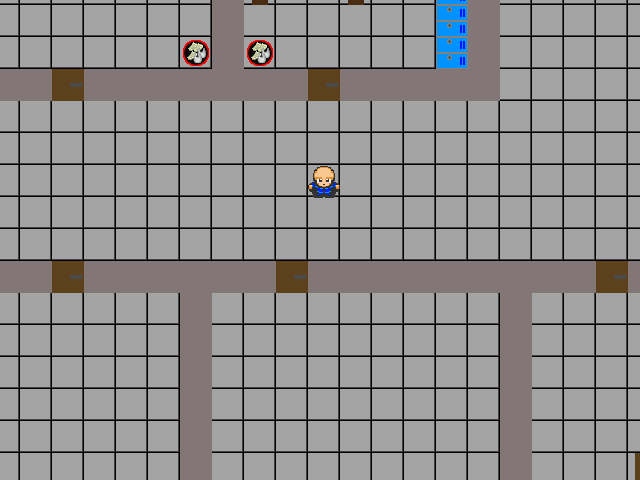
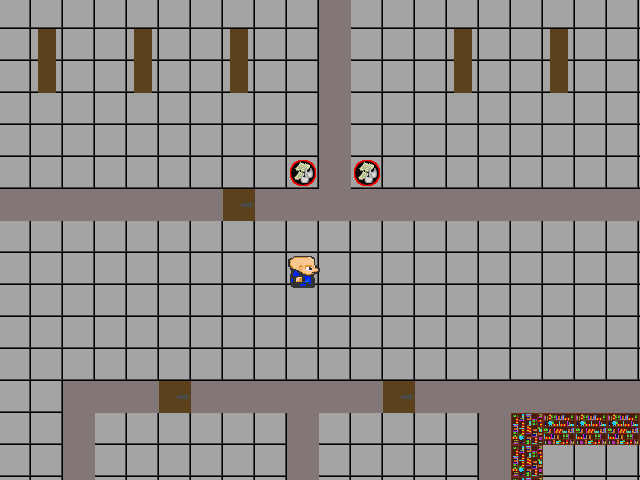
Added quest for Kontura's vtipnicek
need to add the vtipnicek tho :smiley:
The pygame buttons are bruh so I used a lot of images :+1:
Everything should work :pray:

diff --git a/main.py b/main.py
@@ -1,5 +1,5 @@
 # Import
-from numpy import number
+from turtle import back
 import pygame
 from save_progress import SaveProgress
 from sprites import *; from config import *
@@ -147,6 +147,7 @@ class Game:
                 elif column == "G": self.interactive[Block(self, j, i, "G")] = "G" + str(i) + str(j) # Glass door
                 elif column == "B": self.interactive[Block(self, j, i, "B")] = "B" + str(i) + str(j) # Bench
                 elif column == "l": self.interactive[Block(self, j, i, "l")] = "l" + str(i) + str(j) # Desk
+                elif column == "ĺ": self.interactive[Block(self, j, i, "ĺ")] = "ĺ" + str(i) + str(j) # Desk
                 elif column == "U": self.interactive[Block(self, j, i, "U")] = "U" + str(i) + str(j) # LCUJ Desk
                 elif column == "J": self.interactive[Block(self, j, i, "J")] = "J" + str(i) + str(j) # LCUJ Desk
                 elif column == "j": self.interactive[Block(self, j, i, "j")] = "j" + str(i) + str(j) # Horizontal Desk
@@ -163,6 +164,10 @@ class Game:
                 elif column == "|": self.interactive[Block(self, j, i, "|")] = "|" + str(i) + str(j) # Rails fourth_floor
                 elif column == "b": self.interactive[Block(self, j, i, "b")] = "b" + str(i) + str(j) # Basement
                 elif column == "d": self.interactive[Block(self, j, i, "d")] = "d" + str(i) + str(j) # Basement
+                elif column == "O": self.interactive[Block(self, j, i, "O")] = "O" + str(i) + str(j) # Bookshelf
+                elif column == "o": self.interactive[Block(self, j, i, "o")] = "o" + str(i) + str(j) # Bookshelf
+                elif column == "ó": self.interactive[Block(self, j, i, "ó")] = "ó" + str(i) + str(j) # Bookshelf
+                elif column == "Ó": self.interactive[Block(self, j, i, "Ó")] = "Ó" + str(i) + str(j) # Bookshelf
                 elif column == "N": self.interactive[Npc(self, j, i, "")] = "N" + str(i) + str(j)  # NPC
                 elif column == "C": self.npc.append(Npc(self, j, i, "C")) # Cleaner
 
@@ -271,6 +276,8 @@ class Game:
                     case "Basement": self.basement()
                     case "Toilet": self.toilet()
                     case "Teacher": self.talking_with_teachers()
+                    case "Bookshelf": self.bookshelf()
+                    case "Desk": self.desk()
 
                 # Reset
                 self.interacted = ["", "", ""]
@@ -757,6 +764,19 @@ class Game:
             pygame.display.update()
         self.update()
         self.draw()
+
+    def info(self, msg_content: str):
+        """
+        When character is talking but without the update and draw\n
+        Good in some situations
+        """
+
+        for _ in range(self.talking_speed_number):
+            text = self.font.render(msg_content, True, WHITE)
+            text_rect = text.get_rect(x=10, y=10)
+            self.screen.blit(text, text_rect)
+            self.clock.tick(FPS)
+            pygame.display.update()
 
     def trashcan(self):
         """
@@ -1258,6 +1278,7 @@ class Game:
             if self.interacted[2] == 100 and self.interacted[1] == 19: 
                 self.talking("LIA is just standing here")
                 self.talking("MENACINGLY")
+                
     def shoes_on(self):
         """
         Checks if player has shoes on
@@ -1449,6 +1470,260 @@ class Game:
                 self.talking("Welp, you really want me to go down there?")
                 self.talking("Let's see.")
                 self.game_over("img/lost.png")
+
+    def bookshelf(self):
+        """
+        Searching bookshelfs
+        """
+
+        self.talking("There is a lot of books.")
+        if self.interacted[1] in (34, 35, 36) and self.interacted[2] == 85: self.otec_iot()
+
+    def otec_iot(self):
+        """
+        Looking at boot: Otec_IoT
+        """
+
+        self.talking("Huh what is this?")
+
+        looking = True
+
+        # Background
+        bg = pygame.image.load("img/otec_iot.png")
+
+        # Button
+        back_button = Button(500, 400, 120, 50, fg=WHITE, bg=BLACK, content="Back", fontsize=32)
+
+        self.talking("It's a book from Honoré de Balzac.")
+        self.talking("Otec Goriot but the Gor is badly crossed out.")
+
+        while looking:
+            
+            # Position and click of the mouse
+            mouse_pos = pygame.mouse.get_pos()
+            mouse_pressed = pygame.mouse.get_pressed()
+
+            # Events
+            for event in pygame.event.get():
+
+                # Close button
+                if event.type == pygame.QUIT: quit()
+
+            # Background
+            self.screen.blit(bg, (0, 0))
+
+            # Button
+            self.screen.blit(back_button.image, back_button.rect)
+            if back_button.is_pressed(mouse_pos, mouse_pressed): looking = False
+
+            # Updates
+            self.clock.tick(FPS)
+            pygame.display.update()
+
+    def desk(self):
+        """
+        Searching desk (some desks are special)
+        """
+        
+        
+        if self.interacted[1] == 11 and self.interacted[2] == 3: self.iot_safe()
+
+    def iot_safe(self):
+        """
+        IoT safe\n
+        Normal button are too fast so I used images :upside_down:
+        """
+
+        looking = True
+
+        # Background
+        bg = pygame.image.load("img/iot_safe_closed.png")
+        self.talking("A safe?")
+
+        # Button
+        back_button = Button(500, 400, 120, 50, fg=WHITE, bg=BLACK, content="Back", fontsize=32)
+
+        # Note
+        note = pygame.image.load("img/safe_note.png")
+        note_rect = note.get_rect(x=10, y=87)
+
+        # Number buttons
+        one = pygame.image.load("img/b_one.png")
+        one_rect = one.get_rect(x=200, y=130)
+        two = pygame.image.load("img/b_two.png")
+        two_rect = two.get_rect(x=280, y=130)
+        three = pygame.image.load("img/b_three.png")
+        three_rect = three.get_rect(x=360, y=130)
+
+        four = pygame.image.load("img/b_four.png")
+        four_rect = four.get_rect(x=200, y=210)
+        five = pygame.image.load("img/b_five.png")
+        five_rect = five.get_rect(x=280, y=210)
+        six = pygame.image.load("img/b_six.png")
+        six_rect = six.get_rect(x=360, y=210)
+
+        seven = pygame.image.load("img/b_seven.png")
+        seven_rect = seven.get_rect(x=200, y=290)
+        eight = pygame.image.load("img/b_eight.png")
+        eight_rect = eight.get_rect(x=280, y=290)
+        nine = pygame.image.load("img/b_nine.png")
+        nine_rect = nine.get_rect(x=360, y=290)
+
+        enter = pygame.image.load("img/b_enter.png")
+        enter_rect = enter.get_rect(x=200, y=370)
+        zero = pygame.image.load("img/b_zero.png")
+        zero_rect = zero.get_rect(x=280, y=370)
+        back = pygame.image.load("img/b_back.png")
+        back_rect = back.get_rect(x=360, y=370)
+        #one = Button(200, 130, 75, 75, fg=WHITE, bg=DIM_GRAY, content="1", fontsize=20)
+        #two = Button(280, 130, 75, 75, fg=WHITE, bg=DIM_GRAY, content="2", fontsize=20)
+        #three = Button(360, 130, 75, 75, fg=WHITE, bg=DIM_GRAY, content="3", fontsize=20)
+
+        #four = Button(200, 210, 75, 75, fg=WHITE, bg=DIM_GRAY, content="4", fontsize=20)
+        #five = Button(280, 210, 75, 75, fg=WHITE, bg=DIM_GRAY, content="5", fontsize=20)
+        #six = Button(360, 210, 75, 75, fg=WHITE, bg=DIM_GRAY, content="6", fontsize=20)
+
+        #seven = Button(200, 290, 75, 75, fg=WHITE, bg=DIM_GRAY, content="7", fontsize=20)
+        #eight = Button(280, 290, 75, 75, fg=WHITE, bg=DIM_GRAY, content="8", fontsize=20)
+        #nine = Button(360, 290, 75, 75, fg=WHITE, bg=DIM_GRAY, content="9", fontsize=20)
+
+        #enter = Button(200, 370, 75, 75, fg=GREEN, bg=DIM_GRAY, content="->", fontsize=20)
+        #zero = Button(280, 370, 75, 75, fg=WHITE, bg=DIM_GRAY, content="0", fontsize=20)
+        #back = Button(360, 370, 75, 75, fg=WHITE, bg=DIM_GRAY, content="<-", fontsize=20)
+
+        # Input rectangle
+        code_input = pygame.Rect(245, 60, 150, 32)
+
+        # Code
+        code = ""
+
+        while looking:
+
+            # Position and click of the mouse
+            mouse_pos = pygame.mouse.get_pos()
+            mouse_pressed = pygame.mouse.get_pressed()
+
+            # Events
+            for event in pygame.event.get():
+
+                # Close button
+                if event.type == pygame.QUIT: self.exiting()
+
+                # Clicking
+                if event.type == pygame.MOUSEBUTTONDOWN:
+
+                    # Button
+                    if note_rect.collidepoint(event.pos): self.info("Note. Maybe a hint to the code.") # to the code OR for the code OR something different? IDK
+                    elif one_rect.collidepoint(event.pos) and len(code) <= 10: code += "1"
+                    elif two_rect.collidepoint(event.pos) and len(code) <= 10: code += "2"
+                    elif three_rect.collidepoint(event.pos) and len(code) <= 10: code += "3"
+                    elif four_rect.collidepoint(event.pos) and len(code) <= 10: code += "4"
+                    elif five_rect.collidepoint(event.pos) and len(code) <= 10: code += "5"
+                    elif six_rect.collidepoint(event.pos) and len(code) <= 10: code += "6"
+                    elif seven_rect.collidepoint(event.pos) and len(code) <= 10: code += "7"
+                    elif eight_rect.collidepoint(event.pos) and len(code) <= 10: code += "8"
+                    elif nine_rect.collidepoint(event.pos) and len(code) <= 10: code += "9"
+                    elif enter_rect.collidepoint(event.pos):
+                        if code == "3906241": self.open_iot_safe()
+                        else: code = ""
+                    elif zero_rect.collidepoint(event.pos) and len(code) <= 10: code += "0"
+                    elif back_rect.collidepoint(event.pos): code = code[:-1]
+
+            if back_button.is_pressed(mouse_pos, mouse_pressed): looking = False
+            #elif one.is_pressed(mouse_pos, mouse_pressed) and len(code) <= 10: code += "1"
+            #elif two.is_pressed(mouse_pos, mouse_pressed) and len(code) <= 10: code += "2"
+            #elif three.is_pressed(mouse_pos, mouse_pressed) and len(code) <= 10: code += "3"
+            #elif four.is_pressed(mouse_pos, mouse_pressed) and len(code) <= 10: code += "4"
+            #elif five.is_pressed(mouse_pos, mouse_pressed) and len(code) <= 10: code += "5"
+            #elif six.is_pressed(mouse_pos, mouse_pressed) and len(code) <= 10: code += "6"
+            #elif seven.is_pressed(mouse_pos, mouse_pressed) and len(code) <= 10: code += "7"
+            #elif eight.is_pressed(mouse_pos, mouse_pressed) and len(code) <= 10: code += "8"
+            #elif nine.is_pressed(mouse_pos, mouse_pressed) and len(code) <= 10: code += "9"
+            #elif enter.is_pressed(mouse_pos, mouse_pressed):
+            #    if code == "3906241": print("For now print")
+            #    else: code = ""
+            #elif zero.is_pressed(mouse_pos, mouse_pressed) and len(code) <= 10: code += "0"
+            #elif back.is_pressed(mouse_pos, mouse_pressed): code = code[:-1]
+
+            # Background
+            self.screen.blit(bg, (0, 0))
+
+            # Input rectangle
+            pygame.draw.rect(self.screen, BLACK, code_input)
+
+            # Input Text
+            text_surface = self.font.render(code, True, GREEN)
+            self.screen.blit(text_surface, (code_input.x+5, code_input.y+5))
+
+            # Buttons
+            self.screen.blit(back_button.image, back_button.rect)
+            self.screen.blit(one, one_rect)
+            self.screen.blit(two, two_rect)
+            self.screen.blit(three, three_rect)
+            self.screen.blit(four, four_rect)
+            self.screen.blit(five, five_rect)
+            self.screen.blit(six, six_rect)
+            self.screen.blit(seven, seven_rect)
+            self.screen.blit(eight, eight_rect)
+            self.screen.blit(nine, nine_rect)
+            self.screen.blit(enter, enter_rect)
+            self.screen.blit(zero, zero_rect)
+            self.screen.blit(back, back_rect)
+            self.screen.blit(note, note_rect)
+            #self.screen.blit(one.image, one.rect)
+            #self.screen.blit(two.image, two.rect)
+            #self.screen.blit(three.image, three.rect)
+            #self.screen.blit(four.image, four.rect)
+            #self.screen.blit(five.image, five.rect)
+            #self.screen.blit(six.image, six.rect)
+            #self.screen.blit(seven.image, seven.rect)
+            #self.screen.blit(eight.image, eight.rect)
+            #self.screen.blit(nine.image, nine.rect)
+            #self.screen.blit(enter.image, enter.rect)
+            #self.screen.blit(zero.image, zero.rect)
+            #self.screen.blit(back.image, back.rect)
+
+            # Updates
+            self.clock.tick(FPS)
+            pygame.display.update()
+
+    def open_iot_safe(self):
+        """
+        Inside IoT safe\n
+        TODO: add Vtipnicek here after I make it
+        """
+
+        searching = True
+
+        # Background
+        bg = pygame.image.load("img/iot_safe_opened.png")
+
+        # Button
+        back_button = Button(10, 400, 120, 50, fg=WHITE, bg=BLACK, content="Close", fontsize=32)
+
+        while searching:
+
+            # Position and click of the mouse
+            mouse_pos = pygame.mouse.get_pos()
+            mouse_pressed = pygame.mouse.get_pressed()
+
+            # Events
+            for event in pygame.event.get():
+
+                # Close button
+                if event.type == pygame.QUIT: self.exiting()
+
+            # Back button
+            if back_button.is_pressed(mouse_pos, mouse_pressed): searching = False
+
+            # Background
+            self.screen.blit(bg, (0, 0))
+
+            self.screen.blit(back_button.image, back_button.rect)
+
+            # Updates
+            self.clock.tick(FPS)
+            pygame.display.update()
 
     def stairs(self):
         """

diff --git a/config.py b/config.py
@@ -55,7 +55,7 @@ basement: List[str]  = [
 # HeHeHeHa
 ground_floor: List[str] = [
     "WWWWWWWWWWWWWWWWWWWWWWWWWWWWWWWWWWWWWWWWWWWWWWWWWWWWWWWWWWWWWWWWWWWWWWWWWWWWWWWWWWWWWWWWWWWWWWWWWWWWWWWWWWWWWWWWWWWWWWWWWWWWWWWWWWWWWWWWWWWWWWWWWWWWWWWWWWWWWWWWWWWWWWWwwwWWW______________________",
-    "W.l..l..l!!W.ll..l..l.Wl..llll..lWl..llll..lWZZZZZZZř!!!!!!!!!!W.l..l..l..l..l..l.l.W..l..l..l..l..l..l.Wl....llll....lW..l..l..l..l..l..l..l.W..l..l..l..l..l..l...WĽ.....LW______________________",
+    "W.l..l..ll.W.ĺl..l..l.Wl..llll..lWl..llll..lWZZZZZZZř!!!!!!!!!!W.l..l..l..l..l..l.l.W..l..l..l..l..l..l.Wl....llll....lW..l..l..l..l..l..l..l.W..l..l..l..l..l..l...WĽ.....LW______________________",
     "W.l..l..ll.W.ll..l..l.Wl..llll..lWl..llll..lWZZZZZZZř!!!!!!!!!!W.l..l..l..l..l..l.l.W..l..l..l..l..l..l.Wl....llll....lW..l..l..l..l..l..l..l.W..l..l..l..l..l..l...WĽ..B..LW______________________",
     "W.l..l..l..W..l..l..l.Wl..llll..lWl..llll..lWZZZZZZZř!!!!!!!!!!W....................W...................Wl....llll....lW......................W.....................WĽ..B..LW______________________",
     "W.l..l..l..W..l..l..l.Wl..llll..lWl..llll..lWZZZZZZZř!!!!!!!!!!W....................W...................Wl....llll....lW......................W.....................WĽ..B..LW______________________",
@@ -118,14 +118,14 @@ first_floor: List[str] = [
     "W..........W.........................................................................................................................................................................SSSSSSSSSSSw",
     "W..........W.........................................................................................................................................................................SSSSSSSSSSSW",
     "w..........WWWWWDWWWWWW.....WWDWWWDWWWDWWWDWW..........................WWWDWWWWWWDWWWWWWWWWWWWWWWWWWWWWWDWWWWWWDWWWWWWWDWWWWWWDWWWWWWWWWWWWWWDWWWWWWWWWWWDWWWWWWDWWWWWWWWWWWWWWWWWWWWWWWWWWWWWWWW",
-    "w..........W..........W.....W...W...W...W...W..........................W......W.....W......................W.......W.......W.............W.............W...W.......l..l..l..l..l..l..l.....W....W",
-    "W..........W..........W.....W...W...W...W...W..........................W......W.....W......................W.......W.......W.............W.............D...D.......l..l..l..l..l..l..l..........W",
-    "W..........W..........W.....W...W...W...W...W..........................W......W.....W......................W.......W.......W.............W.............WWDWW...............................W....W",
-    "w..........W..........W.....W...W...W...W...W..........................W......W.....W......................W.......W.......W.............W.............W...W..........l..l..l..l..l..l..l..WWWWWW",
-    "w..........W..........W.....W...W...W...W...W..........................W......W.....W......................W.......W.......W.............W.............W...W..........l..l..l..l..l..l..l..W?????",
-    "W..........W..........W.....W...W...W...W...W..........................W......W.....W......................W.......W.......W.............W.............W...W...............................W?????",
-    "W..........W..........W.....W...W...W...W...W..........................W......W.....W......................W.......W.......W.............W.............W...W...l...l..l..l..l..l..l..l..l..W?????",
-    "Wt.........W..........W.....W...W...W...W...W.........................tW......W.....W......................W.......W.......W.............W.............W...Wt..l...l..l..l..l..l..l..l..l..W?????",
+    "w..........W..........W.....W...W...W...W...W..........................W......W.....WoóóóóóóóóóóóóóóóW.....W.......W.......W.............W.............W...W.......l..l..l..l..l..l..l.....W....W",
+    "W..........W..........W.....W...W...W...W...W..........................W......W.....Wo..............ÓW.....W.......W.......W.............W.............D...D.......l..l..l..l..l..l..l..........W",
+    "W..........W..........W.....W...W...W...W...W..........................W......W.....Wo..............ÓW.....W.......W.......W.............W.............WWDWW...............................W....W",
+    "w..........W..........W.....W...W...W...W...W..........................W......W.....Wo..............ÓW.....W.......W.......W.............W.............W...W..........l..l..l..l..l..l..l..WWWWWW",
+    "w..........W..........W.....W...W...W...W...W..........................W......W.....Wo..............ÓW.....W.......W.......W.............W.............W...W..........l..l..l..l..l..l..l..W?????",
+    "W..........W..........W.....W...W...W...W...W..........................W......W.....Wo.....................W.......W.......W.............W.............W...W...............................W?????",
+    "W..........W..........W.....W...W...W...W...W..........................W......W.....Wo.....................W.......W.......W.............W.............W...W...l...l..l..l..l..l..l..l..l..W?????",
+    "Wt.........W..........W.....W...W...W...W...W.........................tW......W.....WOOOOOOOOOOOOOOOOW.....W.......W.......W.............W.............W...Wt..l...l..l..l..l..l..l..l..l..W?????",
     "WWWWWWWWWWWWWWWWWWWWWWWWWWWWWWwWWWwWWWwWWWwWWWWwwWWWwwWWWwwWWWwwWWWwwWWWWWwwWWWWwwwWWWWWwwwwWWwwwwWWwwwwWWWWWWwwwWWWWWwwwWWWWWWwwWWWwwWWWWWWWwwWWWWwwWWWWwWWWWwwWWWWwwWWWwwWWWWwwWWWWwwWWWWW?????",
 ]
 

diff --git a/sprites.py b/sprites.py
@@ -530,7 +530,7 @@ class Block(pygame.sprite.Sprite):
         """
 
         # Interactible blocks
-        inter = ["L", "Ľ", "ľ", "D", "G", "B", "t", "T", "Ť", "S", "Z", "s", "z", "b", "d"]
+        inter = ["L", "Ľ", "ľ", "D", "G", "B", "t", "T", "Ť", "S", "Z", "s", "z", "b", "d", "O", "o", "ó", "Ó", "ĺ"]
 
         self.game = game
         self._layer = BLOCK_LAYER
@@ -566,6 +566,7 @@ class Block(pygame.sprite.Sprite):
         elif type == "ŕ": self.image = self.game.terrain_spritesheet.get_sprite(206, 70, self.width, self.height)
         elif type == "r": self.image = self.game.terrain_spritesheet.get_sprite(172, 2, self.width, self.height)
         elif type == "l": self.image = self.game.terrain_spritesheet.get_sprite(240, 104, self.width, self.height)
+        elif type == "ĺ": self.image = self.game.terrain_spritesheet.get_sprite(240, 104, self.width, self.height)
         elif type == "Ř": self.image = self.game.terrain_spritesheet.get_sprite(138, 36, self.width, self.height)
         elif type == "ř": self.image = self.game.terrain_spritesheet.get_sprite(70, 70, self.width, self.height)
         elif type == "b": self.image = self.game.terrain_spritesheet.get_sprite(138, 70, self.width, self.height)
@@ -576,6 +577,10 @@ class Block(pygame.sprite.Sprite):
         elif type == "j": self.image = self.game.terrain_spritesheet.get_sprite(206, 104, self.width, self.height)
         elif type == "/": self.image = self.game.terrain_spritesheet.get_sprite(241, 70, self.width, self.height)
         elif type == "|": self.image = self.game.terrain_spritesheet.get_sprite(241, 36, self.width, self.height)
+        elif type == "O": self.image = self.game.terrain_spritesheet.get_sprite(138, 138, self.width, self.height)
+        elif type == "o": self.image = self.game.terrain_spritesheet.get_sprite(172, 138, self.width, self.height)
+        elif type == "ó": self.image = self.game.terrain_spritesheet.get_sprite(70, 138, self.width, self.height)
+        elif type == "Ó": self.image = self.game.terrain_spritesheet.get_sprite(104, 138, self.width, self.height)
 
         self.rect = self.image.get_rect()
         self.rect.x = self.x
@@ -707,8 +712,15 @@ class Interact(pygame.sprite.Sprite):
 
                     # Basement
                     elif self.interactive[hits[0]] in ("b" + str(i) + str(j), "d" + str(i) + str(j)): self.game.interacted = ["Basement", i, j]
+
+                    # Special desk
+                    elif self.interactive[hits[0]] == "ĺ" + str(i) + str(j): self.game.interacted = ["Desk", i ,j]; print(j, i)
                     
+                    # Teacher
                     elif self.interactive[hits[0]] == "N" + str(i) + str(j): self.game.interacted = ["Teacher", i, j]; print(j, i)
+
+                    # Bookshelf
+                    elif self.interactive[hits[0]] in ("O" + str(i) + str(j), "o" + str(i) + str(j), "ó" + str(i) + str(j), "Ó" + str(i) + str(j)): self.game.interacted = ["Bookshelf", i, j]
 
 class Button:
     """
